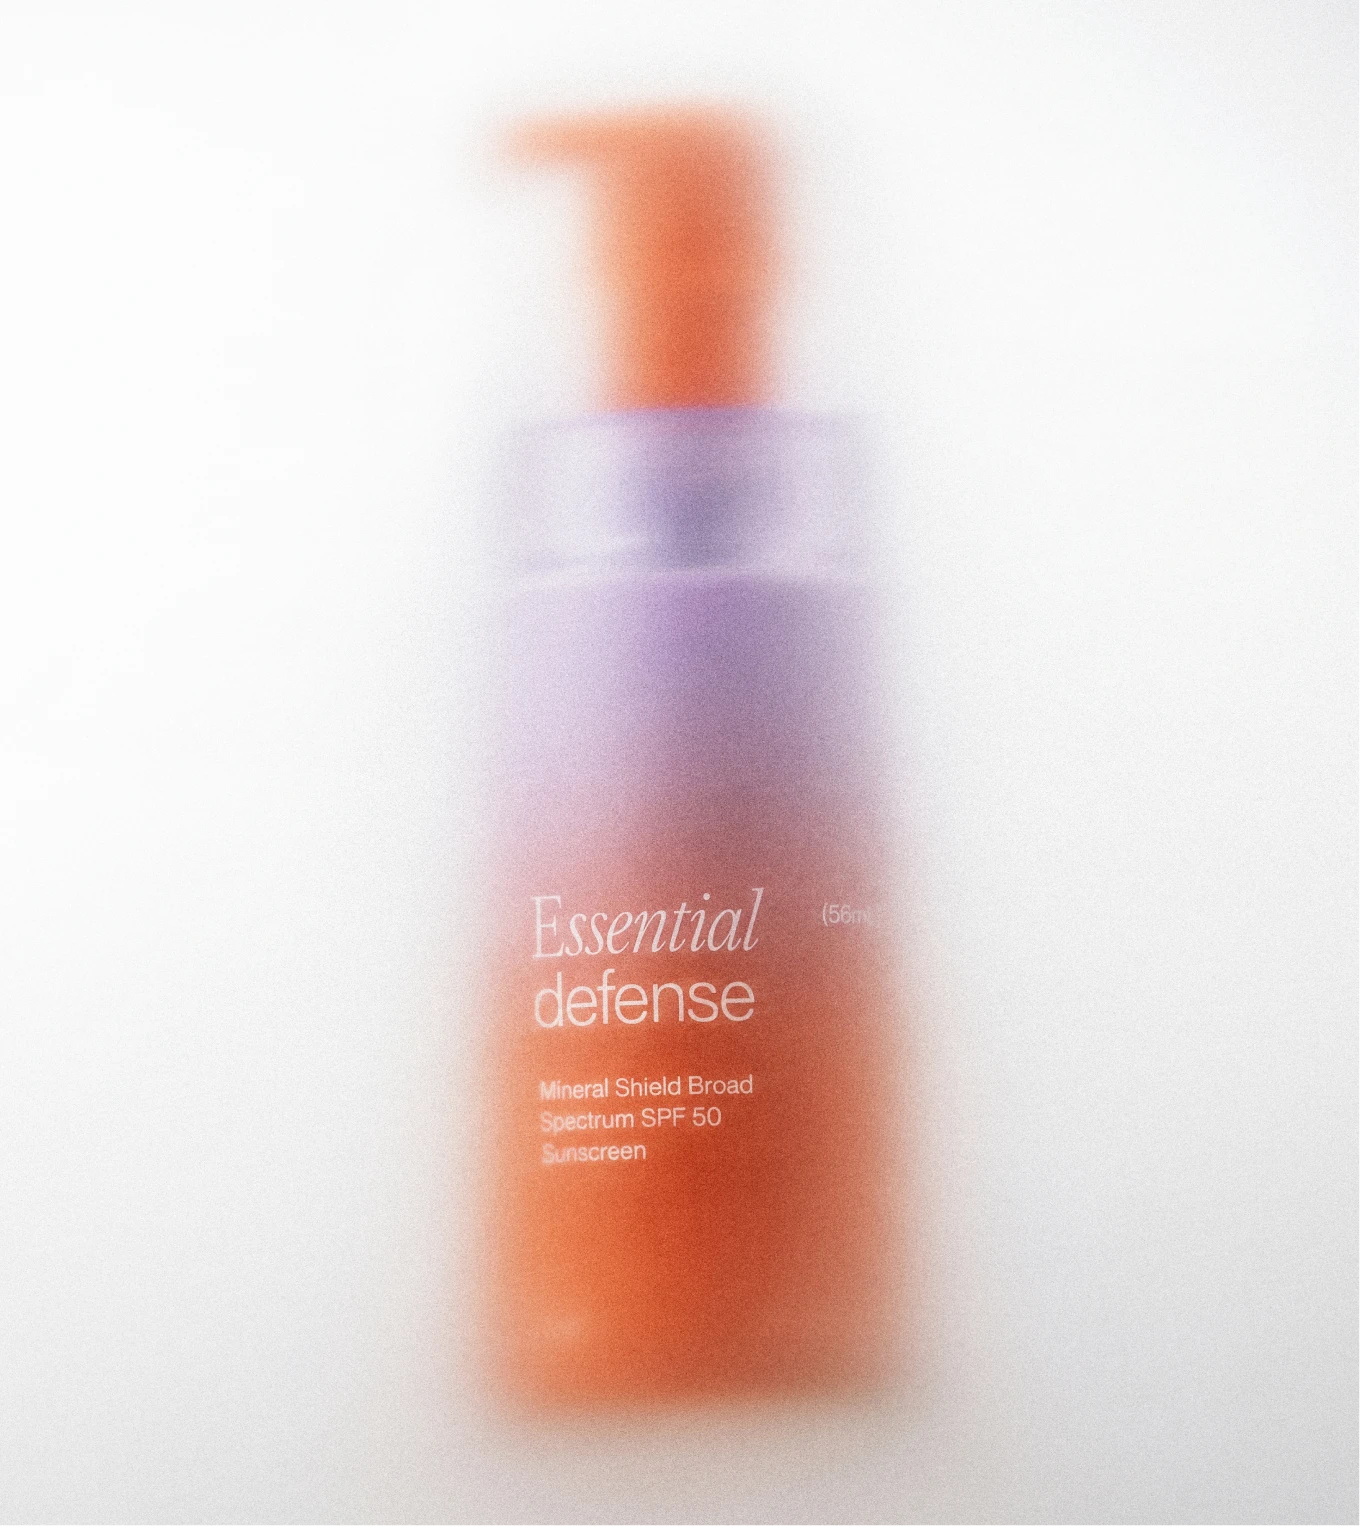
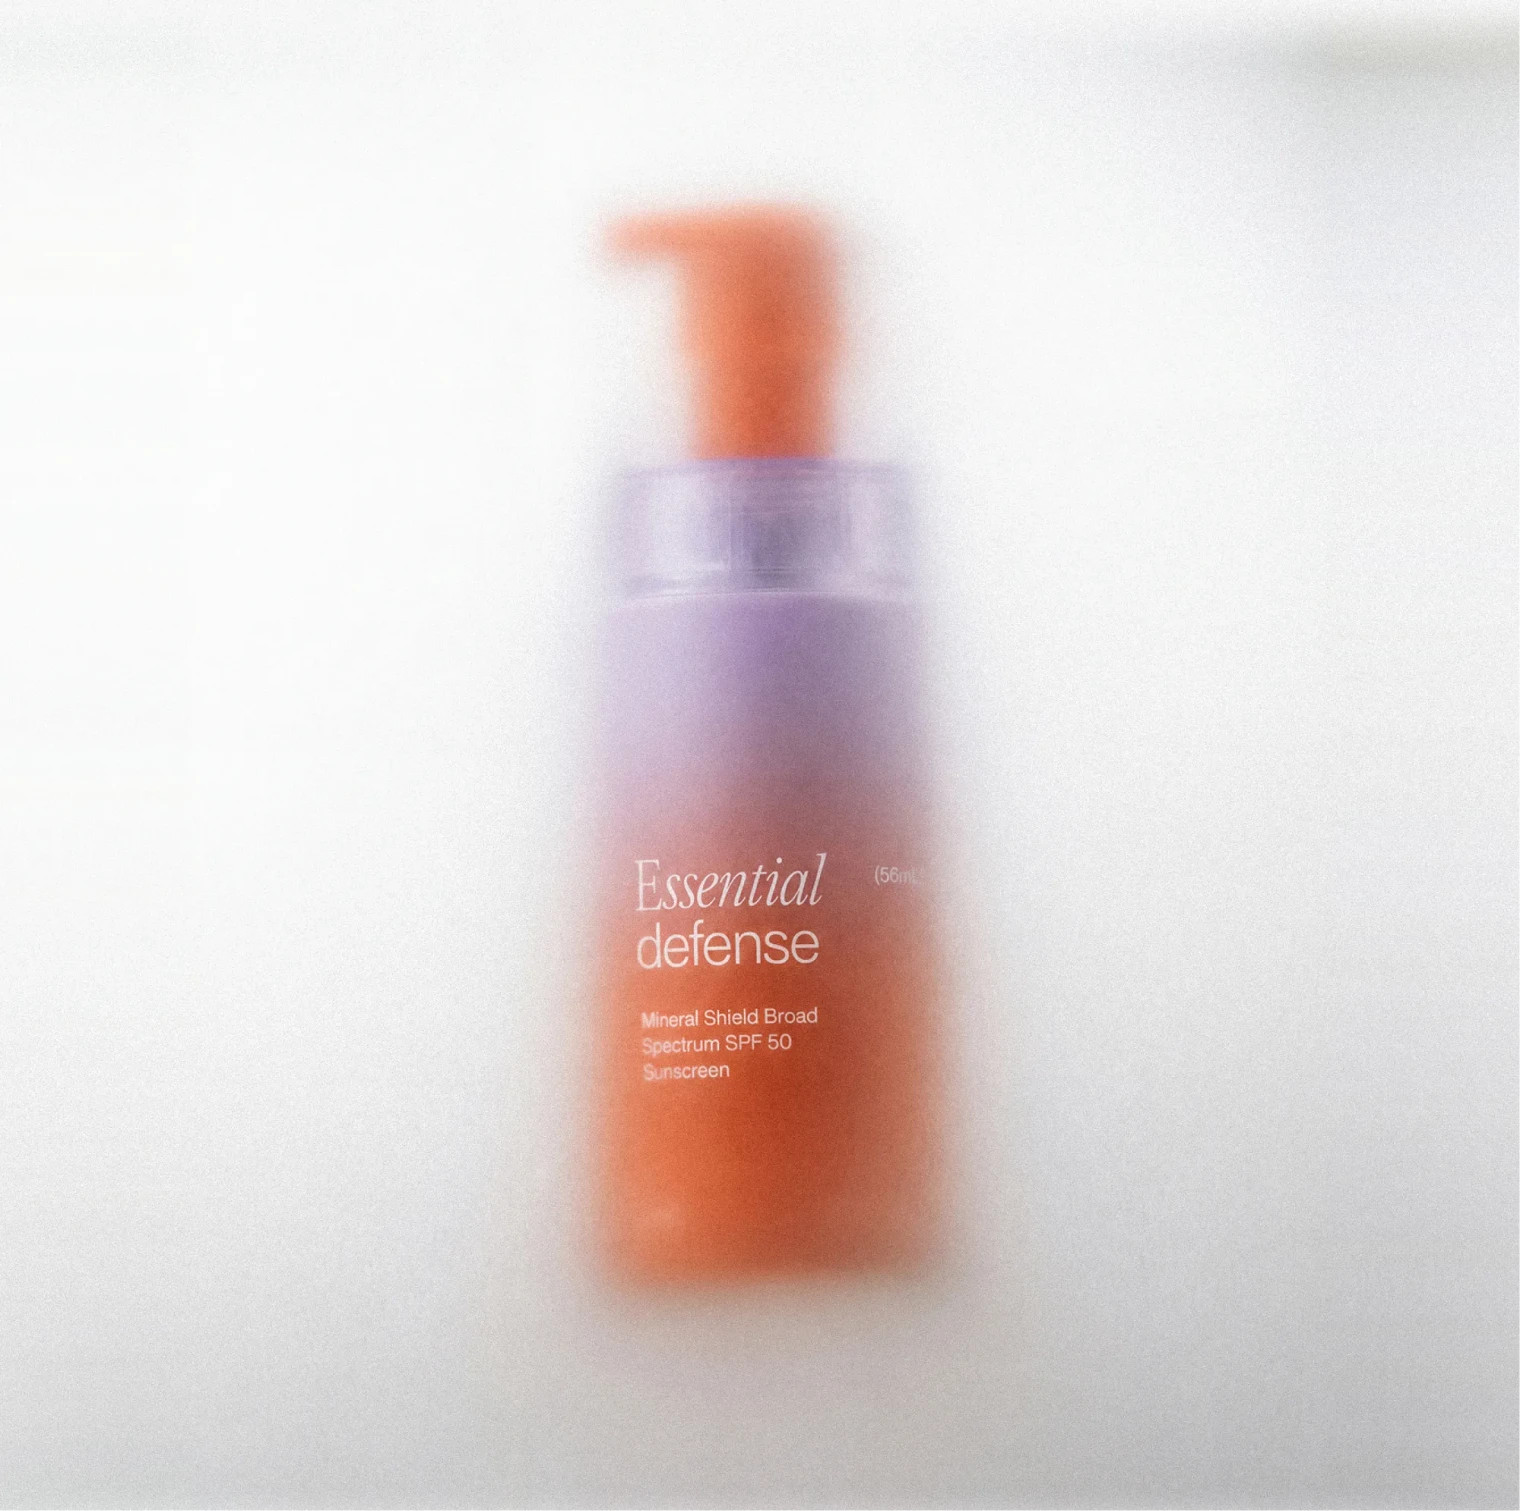
Winona cover: square Essential Defense image

diff --git a/src/data/imageMetadata.ts b/src/data/imageMetadata.ts
@@ -1,7 +1,7 @@
 export const imageMetadata: Record<string, { width: number; height: number }> = {
   '/02_Projects/01_Winona/01_Winona_Drag.webp': { width: 790, height: 790 },
   '/02_Projects/01_Winona/02_Winona_Drag.webp': { width: 780, height: 787 },
-  '/02_Projects/01_Winona/01_Winona_Cover.webp': { width: 1360, height: 1526 },
+  '/02_Projects/01_Winona/01_Winona_Cover.webp': { width: 1520, height: 1511 },
   '/02_Projects/07_Blend360/01_Blend360_Home.webp': { width: 354, height: 468 },
   '/02_Projects/07_Blend360/01_Blend360_Projects.webp': { width: 1556, height: 1028 },
   '/02_Projects/01_Winona/03_Winona.webp': { width: 1759, height: 1664 },
